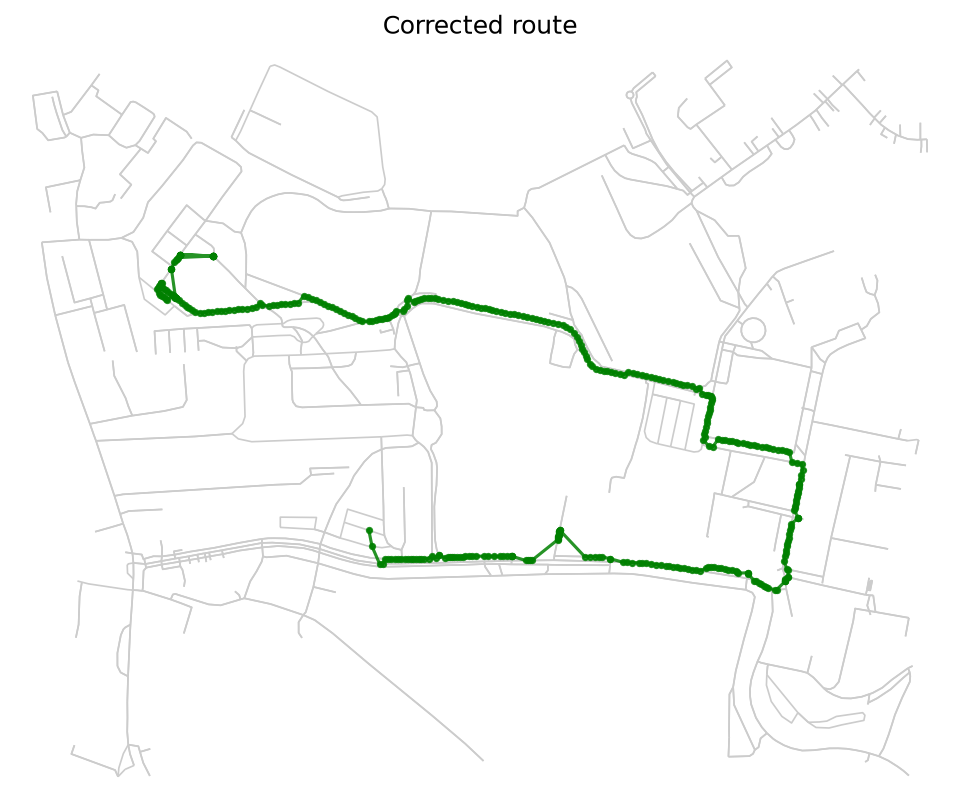
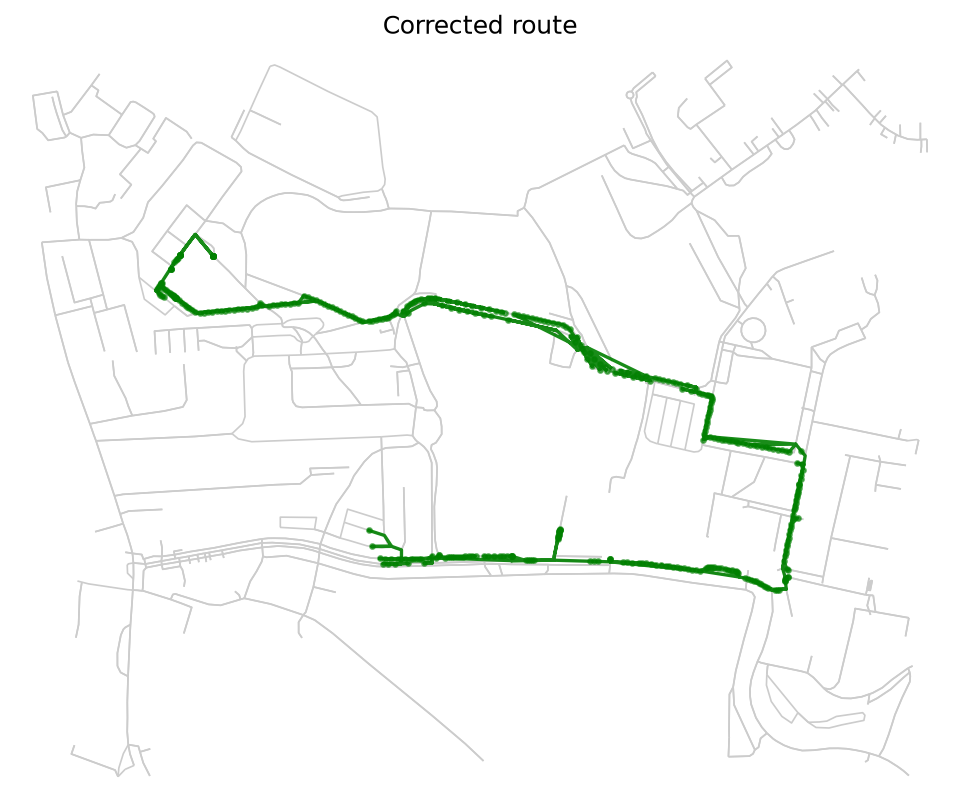
feat: HMM map-matching with continuous on-graph route
Replace per-point nearest-edge snapping with a Viterbi HMM that weighs
emission (point-to-edge distance) against transition (GPS gap vs graph
travel distance), keeping points on the through-road at intersections.
Stitch chosen matches into one continuous route for the fixed map.

diff --git a/src/gps_fix/matching.py b/src/gps_fix/matching.py
@@ -1,4 +1,11 @@
-"""Map-match GPS points by projecting them onto the nearest road edge."""
+"""Map-match a GPS trace with an HMM, keeping the route continuous.
+
+Each point keeps several candidate edges. A Viterbi pass picks the edge
+sequence that balances closeness to the raw point (emission) against agreement
+between consecutive-point spacing and on-graph travel distance (transition).
+Because 1 Hz points are metres apart, this keeps a point on the through-road at
+an intersection instead of letting it jump onto the crossing road.
+"""
 
 from dataclasses import dataclass
 
@@ -7,8 +14,13 @@ import numpy as np
 import osmnx as ox
 import pandas as pd
 from pyproj import Transformer
-from shapely.geometry import LineString, Point
+from shapely.geometry import Point
 
+SIGMA_M = 8.0  # GPS noise scale for the emission term
+MAX_CAND_M = 40.0  # candidate edge search radius
+N_CAND = 6  # candidate edges kept per point
+BETA_M = 10.0  # transition tolerance between GPS gap and graph distance
+NO_PATH_PENALTY = -1e3  # log-score when no on-graph route connects candidates
 TOLERANCE_M = 1.0  # a point counts as "fixed" if it moves more than this
 
 
@@ -21,44 +33,31 @@ class MatchResult:
         moved_m: Per-point displacement from raw to snapped, in metres.
         fixed_count: Number of points moved beyond the tolerance.
         tolerance_m: Displacement threshold used to flag a point as fixed.
+        route_lon: Longitudes of the continuous on-graph route.
+        route_lat: Latitudes of the continuous on-graph route.
     """
 
     df: pd.DataFrame
     moved_m: np.ndarray
     fixed_count: int
     tolerance_m: float
-
-
-def _edge_geometry(graph: nx.MultiDiGraph, u: int, v: int, k: int) -> LineString:
-    """Return the geometry of edge ``(u, v, k)`` in the graph's CRS."""
-    data = graph.edges[u, v, k]
-    if "geometry" in data:
-        return data["geometry"]
-    return LineString(
-        [
-            (graph.nodes[u]["x"], graph.nodes[u]["y"]),
-            (graph.nodes[v]["x"], graph.nodes[v]["y"]),
-        ]
-    )
+    route_lon: np.ndarray
+    route_lat: np.ndarray
 
 
 def match_trace(
     graph: nx.MultiDiGraph, df: pd.DataFrame, tolerance_m: float = TOLERANCE_M
 ) -> MatchResult:
-    """Snap each GPS point onto the closest road edge.
-
-    The graph is projected to a metric CRS, each point is projected onto the
-    geometry of its nearest edge, and the snapped position is converted back to
-    WGS84. This keeps drifted points on real streets rather than the noisy raw
-    location, while preserving the trace's order and one output row per input.
+    """Map-match the trace and build a continuous corrected route.
 
     Args:
         graph: Routable OSM graph in WGS84.
-        df: GPS points with ``lat`` and ``lon`` columns.
+        df: GPS points with ``lat`` and ``lon`` columns, in time order.
         tolerance_m: Minimum displacement (metres) to flag a point as fixed.
 
     Returns:
-        A :class:`MatchResult` with the corrected trace and statistics.
+        A :class:`MatchResult` with the corrected per-point trace, the
+        continuous route geometry, and statistics.
     """
     proj = ox.project_graph(graph)
     crs = proj.graph["crs"]
@@ -66,18 +65,20 @@ def match_trace(
     to_wgs84 = Transformer.from_crs(crs, "EPSG:4326", always_xy=True)
 
     xs, ys = to_metric.transform(df["lon"].to_numpy(), df["lat"].to_numpy())
-    edges = ox.distance.nearest_edges(proj, xs, ys)
+    node_x = nx.get_node_attributes(proj, "x")
+    node_y = nx.get_node_attributes(proj, "y")
+    edge_geoms = ox.graph_to_gdfs(proj, nodes=False)["geometry"]
 
-    snapped_x = np.empty(len(df))
-    snapped_y = np.empty(len(df))
-    for i, (x, y, edge) in enumerate(zip(xs, ys, edges)):
-        geom = _edge_geometry(proj, *edge)
-        point = geom.interpolate(geom.project(Point(x, y)))
-        snapped_x[i] = point.x
-        snapped_y[i] = point.y
+    candidates = _candidates(edge_geoms, xs, ys, node_x, node_y)
+    chosen = _viterbi(proj, candidates, xs, ys)
 
+    snapped_x = np.array([candidates[i][c].point.x for i, c in enumerate(chosen)])
+    snapped_y = np.array([candidates[i][c].point.y for i, c in enumerate(chosen)])
     lon, lat = to_wgs84.transform(snapped_x, snapped_y)
     moved_m = np.hypot(snapped_x - xs, snapped_y - ys)
+
+    route_x, route_y = _build_route(proj, candidates, chosen, node_x, node_y)
+    route_lon, route_lat = to_wgs84.transform(route_x, route_y)
 
     fixed = df.copy()
     fixed["lat"] = lat
@@ -87,4 +88,106 @@ def match_trace(
         moved_m=moved_m,
         fixed_count=int((moved_m > tolerance_m).sum()),
         tolerance_m=tolerance_m,
+        route_lon=np.asarray(route_lon),
+        route_lat=np.asarray(route_lat),
     )
+
+
+@dataclass(frozen=True)
+class _Candidate:
+    """A candidate edge match for one GPS point (projected CRS)."""
+
+    point: Point  # raw point projected onto the edge
+    dist: float  # distance from raw point to the edge, metres
+    node: int  # edge endpoint used for on-graph routing
+
+
+def _candidates(edge_geoms, xs, ys, node_x, node_y) -> list[list[_Candidate]]:
+    """Find up to ``N_CAND`` nearby edges for each point, nearest first."""
+    geoms = edge_geoms.to_numpy()
+    index = edge_geoms.index.to_list()
+    out: list[list[_Candidate]] = []
+    for x, y in zip(xs, ys):
+        raw = Point(x, y)
+        dists = np.array([g.distance(raw) for g in geoms])
+        cands: list[_Candidate] = []
+        for idx in np.argsort(dists)[:N_CAND]:
+            dist = float(dists[idx])
+            if dist > MAX_CAND_M and cands:
+                break  # always keep at least the nearest edge
+            geom = geoms[idx]
+            point = geom.interpolate(geom.project(raw))
+            u, v = index[idx][0], index[idx][1]
+            du = (node_x[u] - point.x) ** 2 + (node_y[u] - point.y) ** 2
+            dv = (node_x[v] - point.x) ** 2 + (node_y[v] - point.y) ** 2
+            cands.append(_Candidate(point=point, dist=dist, node=u if du <= dv else v))
+        out.append(cands)
+    return out
+
+
+def _viterbi(proj, candidates, xs, ys) -> list[int]:
+    """Pick the most likely candidate per point via the Viterbi algorithm."""
+    cache: dict[tuple[int, int], float] = {}
+
+    def route_len(a: int, b: int) -> float | None:
+        if a == b:
+            return 0.0
+        if (a, b) not in cache:
+            try:
+                cache[a, b] = nx.shortest_path_length(proj, a, b, weight="length")
+            except nx.NetworkXNoPath:
+                cache[a, b] = None
+        return cache[a, b]
+
+    n = len(candidates)
+    scores = [[-0.5 * (c.dist / SIGMA_M) ** 2 for c in candidates[0]]]
+    back: list[list[int]] = [[-1] * len(candidates[0])]
+    for i in range(1, n):
+        gap = float(np.hypot(xs[i] - xs[i - 1], ys[i] - ys[i - 1]))
+        prev = scores[i - 1]
+        row, row_back = [], []
+        for cand in candidates[i]:
+            emission = -0.5 * (cand.dist / SIGMA_M) ** 2
+            best, best_k = float("-inf"), 0
+            for k, pcand in enumerate(candidates[i - 1]):
+                rl = route_len(pcand.node, cand.node)
+                trans = NO_PATH_PENALTY if rl is None else -abs(gap - rl) / BETA_M
+                total = prev[k] + trans
+                if total > best:
+                    best, best_k = total, k
+            row.append(best + emission)
+            row_back.append(best_k)
+        scores.append(row)
+        back.append(row_back)
+
+    chosen = [int(np.argmax(scores[-1]))]
+    for i in range(n - 1, 0, -1):
+        chosen.append(back[i][chosen[-1]])
+    chosen.reverse()
+    return chosen
+
+
+def _build_route(proj, candidates, chosen, node_x, node_y):
+    """Stitch chosen matches into one continuous on-graph polyline."""
+    route_x: list[float] = []
+    route_y: list[float] = []
+
+    def push(x: float, y: float) -> None:
+        if not route_x or (route_x[-1] != x or route_y[-1] != y):
+            route_x.append(x)
+            route_y.append(y)
+
+    prev = candidates[0][chosen[0]]
+    push(prev.point.x, prev.point.y)
+    for i in range(1, len(chosen)):
+        cur = candidates[i][chosen[i]]
+        if cur.node != prev.node:
+            try:
+                path = nx.shortest_path(proj, prev.node, cur.node, weight="length")
+                for node in path:
+                    push(node_x[node], node_y[node])
+            except nx.NetworkXNoPath:
+                pass  # gap in graph; the snapped points keep the route going
+        push(cur.point.x, cur.point.y)
+        prev = cur
+    return np.array(route_x), np.array(route_y)

diff --git a/src/gps_fix/plotting.py b/src/gps_fix/plotting.py
@@ -1,31 +1,35 @@
 """Render raw and corrected routes over the OSM graph as PNGs."""
 
+from collections.abc import Sequence
 from pathlib import Path
 
 import matplotlib.pyplot as plt
 import networkx as nx
 import osmnx as ox
-import pandas as pd
 
 
 def plot_route(
     graph: nx.MultiDiGraph,
-    df: pd.DataFrame,
+    lon: Sequence[float],
+    lat: Sequence[float],
     title: str,
     path: Path,
     color: str,
+    markers: tuple[Sequence[float], Sequence[float]] | None = None,
 ) -> None:
-    """Plot a trace over the road graph and save it as a PNG.
+    """Plot a route over the road graph and save it as a PNG.
 
-    Both the raw and corrected maps share the same graph, so they render at an
-    identical extent and are directly comparable.
+    All maps share the same graph, so they render at an identical extent and
+    are directly comparable.
 
     Args:
         graph: OSM graph in WGS84 (provides the basemap and extent).
-        df: Points with ``lat`` and ``lon`` columns, in route order.
+        lon: Route longitudes, in order.
+        lat: Route latitudes, in order.
         title: Figure title.
         path: Destination PNG path; parent directories are created.
-        color: Matplotlib colour for the route line and markers.
+        color: Matplotlib colour for the route line.
+        markers: Optional ``(lon, lat)`` of corrected points to overlay.
     """
     path.parent.mkdir(parents=True, exist_ok=True)
     fig, ax = ox.plot_graph(
@@ -37,15 +41,11 @@ def plot_route(
         edge_linewidth=0.8,
         bgcolor="white",
     )
-    ax.plot(
-        df["lon"],
-        df["lat"],
-        color=color,
-        linewidth=1.5,
-        marker="o",
-        markersize=2.5,
-        alpha=0.85,
-    )
+    ax.plot(lon, lat, color=color, linewidth=1.6, alpha=0.9, zorder=3)
+    if markers is not None:
+        ax.scatter(
+            markers[0], markers[1], s=5, color=color, alpha=0.6, zorder=4
+        )
     ax.set_title(title, color="black")
     fig.savefig(path, dpi=150, bbox_inches="tight", facecolor="white")
     plt.close(fig)

diff --git a/src/gps_fix/cli.py b/src/gps_fix/cli.py
@@ -29,9 +29,22 @@ def main() -> int:
 
         result = match_trace(graph, df_raw)
         save_gps(result.df, OUTPUT_DIR / "gps_fixed.csv")
-        plot_route(graph, df_raw, "Raw GPS route", OUTPUT_DIR / "raw_route.png", "red")
         plot_route(
-            graph, result.df, "Corrected route", OUTPUT_DIR / "fixed_route.png", "green"
+            graph,
+            df_raw["lon"],
+            df_raw["lat"],
+            "Raw GPS route",
+            OUTPUT_DIR / "raw_route.png",
+            "red",
+        )
+        plot_route(
+            graph,
+            result.route_lon,
+            result.route_lat,
+            "Corrected route",
+            OUTPUT_DIR / "fixed_route.png",
+            "green",
+            markers=(result.df["lon"], result.df["lat"]),
         )
         headline = write_report(result, OUTPUT_DIR / "report.md")
     except (FileNotFoundError, ValueError) as exc:

diff --git a/outputs/report.md b/outputs/report.md
@@ -1,12 +1,12 @@
 # GPS Map-Matching Report
 
-Corrected 294 of 397 coordinates (74.1%).
+Corrected 312 of 397 coordinates (78.6%).
 
 - Total points: 397
-- Corrected points: 294
-- Unchanged points: 103
+- Corrected points: 312
+- Unchanged points: 85
 - Fix tolerance: 1.0 m
-- Mean displacement: 5.99 m
-- Max displacement: 27.97 m
+- Mean displacement: 6.44 m
+- Max displacement: 28.66 m
 
 A coordinate counts as corrected when it moved more than the fix tolerance after being snapped to the nearest OSM road edge.